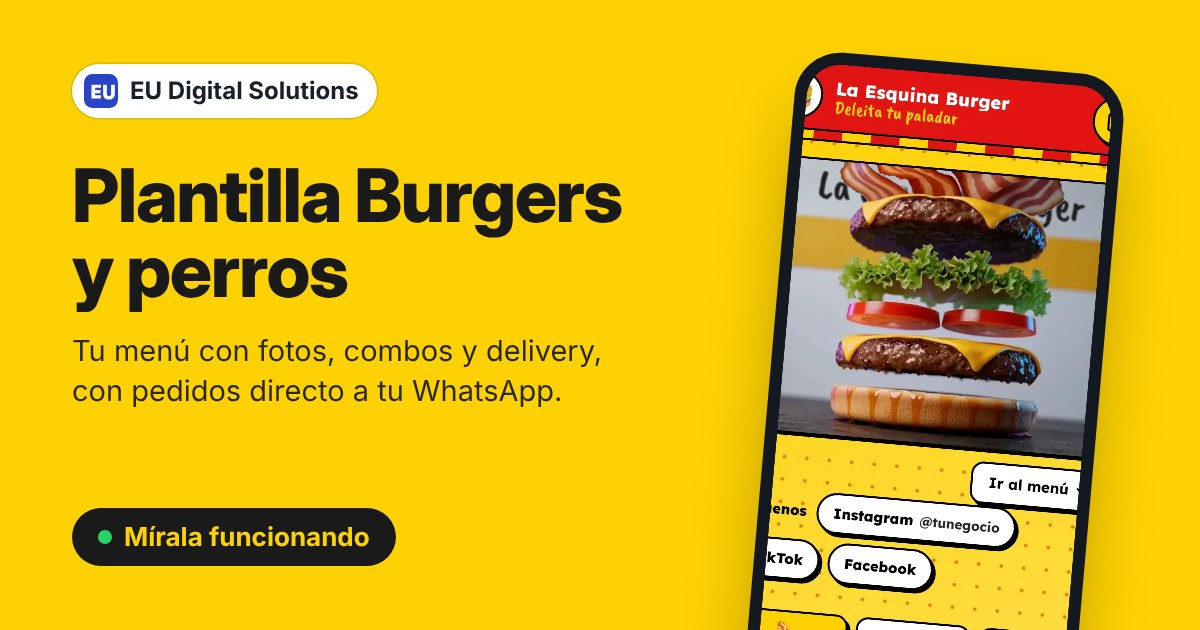
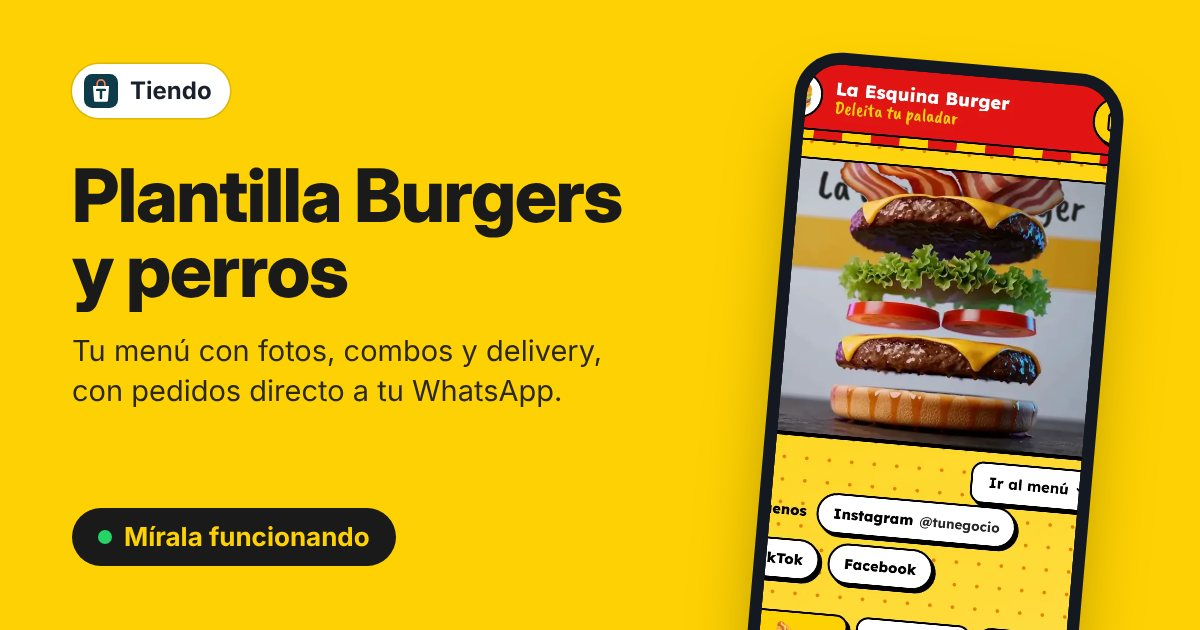
Update the backup with the Tiendo rename
Copies commit ed15d89 of EU-digital-solution.

Claude-Session: https://claude.ai/code/session_01WBHWbeLRVCgdNFos2AZub8

Changed region(s): [[0.0617, 0.0905, 0.3392, 0.2111]]

diff --git a/eudigital/core/idiomas-plataforma.js b/eudigital/core/idiomas-plataforma.js
@@ -1,7 +1,7 @@
 /* Textos de la plataforma (portada, registro y panel del dueño) en inglés, portugués e italiano.
    Usa el traductor de core/idiomas.js: cada texto en español con sus tres traducciones
    [inglés, portugués, italiano], y patrones para textos con números, fechas o nombres.
-   El panel de administración de EU Digital queda en español.
+   El panel de administración de Tiendo queda en español.
    Para agregar un texto nuevo del panel o la portada, súmalo aquí. */
 (function () {
   "use strict";
@@ -196,7 +196,7 @@
     "Escribir por WhatsApp": ["Write on WhatsApp", "Escrever pelo WhatsApp", "Scrivi su WhatsApp"],
     "Abriendo la página": ["Opening the page", "Abrindo a página", "Apertura della pagina"],
     "Esta página no está disponible": ["This page isn't available", "Esta página não está disponível", "Questa pagina non è disponibile"],
-    "Si eres el dueño del negocio, escríbele a EU Digital.": ["If you're the business owner, write to EU Digital.", "Se você é o dono do negócio, escreva para a EU Digital.", "Se sei il titolare, scrivi a EU Digital."],
+    "Si eres el dueño del negocio, escríbele a Tiendo.": ["If you're the business owner, write to Tiendo.", "Se você é o dono do negócio, escreva para a Tiendo.", "Se sei il titolare, scrivi a Tiendo."],
     "No pudimos cargar la página": ["We couldn't load the page", "Não conseguimos carregar a página", "Non siamo riusciti a caricare la pagina"],
     "Revisa tu conexión a internet y vuelve a intentar.": ["Check your internet connection and try again.", "Verifique sua conexão com a internet e tente de novo.", "Controlla la connessione a internet e riprova."],
     "Instalar ahora": ["Install now", "Instalar agora", "Installa ora"],
@@ -206,7 +206,7 @@
     "Instálalo como app en tu teléfono: abre directo en tu página, sin buscar el enlace.": ["Install it as an app on your phone: it opens straight to your page, no need to look for the link.", "Instale como app no seu telefone: abre direto na sua página, sem procurar o link.", "Installalo come app sul telefono: si apre direttamente sulla tua pagina, senza cercare il link."],
     "Instala tu panel en el teléfono o en la computadora para entrar con un toque.": ["Install your panel on your phone or computer to get in with one tap.", "Instale seu painel no telefone ou no computador para entrar com um toque.", "Installa il pannello sul telefono o sul computer per entrare con un tocco."],
     "La app de tu panel": ["Your panel app", "O app do seu painel", "L'app del tuo pannello"],
-    "Listo. Busca el ícono de EU Digital en tu pantalla de inicio.": ["Done. Look for the EU Digital icon on your home screen.", "Pronto. Procure o ícone da EU Digital na tela inicial.", "Fatto. Cerca l'icona di EU Digital nella schermata iniziale."],
+    "Listo. Busca el ícono de Tiendo en tu pantalla de inicio.": ["Done. Look for the Tiendo icon on your home screen.", "Pronto. Procure o ícone da Tiendo na tela inicial.", "Fatto. Cerca l'icona di Tiendo nella schermata iniziale."],
     "Ya estás usando la app instalada.": ["You're already using the installed app.", "Você já está usando o app instalado.", "Stai già usando l'app installata."],
     "En iPhone o iPad se instala así:": ["On iPhone or iPad, install it like this:", "No iPhone ou iPad, instale assim:", "Su iPhone o iPad si installa così:"],
     "Se instala así:": ["Install it like this:", "Instale assim:", "Si installa così:"],
@@ -283,7 +283,7 @@
     "No tienes permiso para hacer eso.": ["You don't have permission to do that.", "Você não tem permissão para fazer isso.", "Non hai il permesso di farlo."],
     "Esta cuenta no tiene página": ["This account has no page", "Esta conta não tem página", "Questo account non ha una pagina"],
     "Crear mi página": ["Create my page", "Criar minha página", "Crea la mia pagina"],
-    "No encontramos la plantilla de tu página. Escríbele a EU Digital.": ["We couldn't find your page's template. Write to EU Digital.", "Não encontramos o modelo da sua página. Escreva para a EU Digital.", "Non troviamo il modello della tua pagina. Scrivi a EU Digital."],
+    "No encontramos la plantilla de tu página. Escríbele a Tiendo.": ["We couldn't find your page's template. Write to Tiendo.", "Não encontramos o modelo da sua página. Escreva para a Tiendo.", "Non troviamo il modello della tua pagina. Scrivi a Tiendo."],
 
     // Barra del panel y guardar
     "Ver página": ["View page", "Ver página", "Vedi pagina"],
@@ -735,7 +735,7 @@
     "Ver cómo pagar": ["See how to pay", "Ver como pagar", "Vedi come pagare"],
     "Paga por cualquiera de estas vías y luego repórtalo aquí abajo.": ["Pay by any of these methods and then report it below.", "Pague por qualquer uma destas formas e depois informe aqui embaixo.", "Paga con uno di questi metodi e poi segnalalo qui sotto."],
     "Escríbenos para saber cómo pagar.": ["Write to us to find out how to pay.", "Escreva para saber como pagar.", "Scrivici per sapere come pagare."],
-    "Escribir a EU Digital Solutions por WhatsApp": ["Write to EU Digital Solutions on WhatsApp", "Escrever para a EU Digital Solutions pelo WhatsApp", "Scrivi a EU Digital Solutions su WhatsApp"],
+    "Escribir a Tiendo por WhatsApp": ["Write to Tiendo on WhatsApp", "Escrever para a Tiendo pelo WhatsApp", "Scrivi a Tiendo su WhatsApp"],
     "Reportar un pago": ["Report a payment", "Informar um pagamento", "Segnala un pagamento"],
     "Plan que pagas": ["Plan you're paying for", "Plano que você paga", "Piano che paghi"],
     "Meses que pagas": ["Months you're paying for", "Meses que você paga", "Mesi che paghi"],

diff --git a/eudigital/panel/panel.js b/eudigital/panel/panel.js
@@ -36,7 +36,7 @@
   const estadoCuenta = () => EU.estadoCuenta(S.principal || S.sitio, S.cuenta, S.ajustes.diasGracia);
   // Una página adicional queda en pausa cuando la cuenta baja a un plan de una sola página
   const enPausa = () => !!(S.sitio && S.sitio.principal && S.sitio.estado === "suspendido" && S.principal && S.principal.estado === "activo");
-  const marca = () => S.ajustes.marca || C.marca || "EU Digital";
+  const marca = () => S.ajustes.marca || C.marca || "Tiendo";
   const waEU = (texto) => "https://wa.me/" + WA_EU + "?text=" + encodeURIComponent(texto);
   function cargando(texto) { app.replaceChildren(h("div", { class: "cargando-pantalla" }, h("p", {}, h("span", { class: "punto-carga" }), texto || "Cargando"))); }
 
@@ -49,7 +49,7 @@
     const error = h("p", { class: "banda rojo", role: "alert", hidden: !mensaje }, mensaje || "");
     const boton = h("button", { class: "btn btn-ancho", type: "submit" }, "Entrar");
     const form = h("form", { class: "hoja entrada-hoja", novalidate: true },
-      h("div", { class: "hoja-fila" }, h("div", { class: "marca-eu" }, h("img", { src: "/img/favicon.svg", alt: "" }), C.marca || "EU Digital"),
+      h("div", { class: "hoja-fila" }, h("div", { class: "marca-eu" }, h("img", { src: "/img/favicon.svg", alt: "" }), C.marca || "Tiendo"),
         EU.selectorIdiomas ? EU.selectorIdiomas() : null),
       h("div", { class: "hoja-cab" }, h("h1", {}, "Entra a tu página"), h("p", {}, "Con tu usuario y tu contraseña.")),
       h("div", { class: "campos" },
@@ -102,7 +102,7 @@
       S.ajustes = (ajustes && ajustes[0] && ajustes[0].datos) || {};
       S.planes = EU.planes.leer(S.ajustes);
       S.P = (window.EU_PLANTILLAS || {})[S.sitio.plantilla];
-      if (!S.P) throw new Error("No encontramos la plantilla de tu página. Escríbele a EU Digital.");
+      if (!S.P) throw new Error("No encontramos la plantilla de tu página. Escríbele a Tiendo.");
       S.borrador = K.combinar(S.P.defaults, S.sitio.contenido || {});
       ponerMascota(S.borrador, S.P);
       S.nombre = S.sitio.nombre;
@@ -147,7 +147,7 @@
   function pantallaSinPagina() {
     app.replaceChildren(h("main", { class: "entrada-pantalla" }, h("div", { class: "hoja entrada-hoja" },
       h("h1", {}, "Esta cuenta no tiene página"),
-      h("p", { class: "suave" }, "Si eres de " + (C.marca || "EU Digital") + ", entra por el panel de administración. Si quieres una página para tu negocio, créala gratis."),
+      h("p", { class: "suave" }, "Si eres de " + (C.marca || "Tiendo") + ", entra por el panel de administración. Si quieres una página para tu negocio, créala gratis."),
       h("div", { class: "acciones" }, h("a", { class: "btn", href: "/registro/" }, "Crear mi página"), h("a", { class: "btn btn-sec", href: "/admin/" }, "Panel de administración"), h("button", { class: "btn btn-plano", type: "button", onclick: salir }, "Salir")))));
   }
 
@@ -934,7 +934,7 @@
 
   /* ---------- Idioma del panel ----------
      Se guarda en la cuenta (eu_cuentas.idioma) para abrir el panel en ese idioma desde cualquier
-     teléfono, y para que EU Digital vea en su panel qué idioma habla cada cliente. */
+     teléfono, y para que Tiendo vea en su panel qué idioma habla cada cliente. */
   async function guardarIdioma(nuevo) {
     try { await api.rpc("eu_poner_idioma", { p_sitio: S.principal.id, p_idioma: nuevo }); if (S.cuenta) S.cuenta.idioma = nuevo; return true; }
     catch (_) { return false; }
@@ -1024,7 +1024,7 @@
         const nuevo = (r && r[0]) || Object.assign({ estado: "pendiente", creado: new Date().toISOString() }, fila);
         S.pagos.unshift(nuevo);
         S.pago = null;
-        // Aviso al teléfono de EU Digital. Si no sale, el pago igual queda en su lista de pendientes.
+        // Aviso al teléfono de Tiendo. Si no sale, el pago igual queda en su lista de pendientes.
         if (C.avisos && nuevo.id) api.funcion("eu-avisos", { accion: "pago", pago: nuevo.id }).catch(() => { /* sin aviso */ });
         pintarSeccion();
         pagoEnviado(nuevo);

diff --git a/eudigital/admin/admin.js b/eudigital/admin/admin.js
@@ -1,4 +1,4 @@
-/* Panel de EU Digital: clientes, pagos, suspensiones y ajustes de la plataforma. */
+/* Panel de Tiendo: clientes, pagos, suspensiones y ajustes de la plataforma. */
 (function () {
   "use strict";
   const C = window.EU_CONFIG;
@@ -45,14 +45,14 @@
 
   /* ---------- Entrada ---------- */
   function pantallaEntrada(mensaje) {
-    document.title = "EU Digital: entrar";
+    document.title = "Tiendo: entrar";
     const usuario = h("input", { class: "entrada", id: "usuario", type: "text", autocomplete: "username", autocapitalize: "none", spellcheck: false, value: C.usuarioAdmin || "" });
     const clave = h("input", { class: "entrada", id: "clave", type: "password", autocomplete: "current-password" });
     const error = h("p", { class: "banda rojo", role: "alert", hidden: !mensaje }, mensaje || "");
     const boton = h("button", { class: "btn btn-ancho", type: "submit" }, "Entrar");
     const form = h("form", { class: "hoja entrada-hoja", novalidate: true },
-      h("div", { class: "marca-eu" }, h("img", { src: "/img/favicon.svg", alt: "" }), C.marca || "EU Digital"),
-      h("div", { class: "hoja-cab" }, h("h1", {}, "Panel de administración"), h("p", {}, "Solo para EU Digital. La sesión se cierra al cerrar esta pestaña.")),
+      h("div", { class: "marca-eu" }, h("img", { src: "/img/favicon.svg", alt: "" }), C.marca || "Tiendo"),
+      h("div", { class: "hoja-cab" }, h("h1", {}, "Panel de administración"), h("p", {}, "Solo para Tiendo. La sesión se cierra al cerrar esta pestaña.")),
       h("div", { class: "campos" },
         h("div", { class: "campo" }, h("label", { for: "usuario" }, "Usuario"), usuario),
         h("div", { class: "campo" }, h("label", { for: "clave" }, "Contraseña"), clave)),
@@ -93,7 +93,7 @@
     cargando("Abriendo el panel");
     try {
       const esAdmin = await api.rpc("eu_es_admin", {});
-      if (esAdmin !== true) { await api.salir(); return pantallaEntrada("Esta cuenta no es de EU Digital. Los clientes entran por /panel."); }
+      if (esAdmin !== true) { await api.salir(); return pantallaEntrada("Esta cuenta no es de Tiendo. Los clientes entran por /panel."); }
       const [sitios, cuentas, pagos, notas, ajustes] = await Promise.all([
         api.select("eu_sitios", SEL_SITIOS),
         api.select("eu_cuentas", "select=*"),
@@ -129,11 +129,11 @@
     { id: "ajustes", titulo: "Ajustes" },
   ];
   function pintar() {
-    document.title = "EU Digital: administración";
+    document.title = "Tiendo: administración";
     refs = { nav: h("div", { class: "adm-nav-in", role: "navigation", "aria-label": "Secciones" }), main: h("main", { class: "adm-main" }) };
     app.replaceChildren(
       h("div", { class: "adm-arriba" },
-        h("header", { class: "adm-cab" }, h("div", { class: "marca-eu" }, h("img", { src: "/img/favicon.svg", alt: "" }), D.ajustes.marca || C.marca || "EU Digital"),
+        h("header", { class: "adm-cab" }, h("div", { class: "marca-eu" }, h("img", { src: "/img/favicon.svg", alt: "" }), D.ajustes.marca || C.marca || "Tiendo"),
           h("div", { class: "acciones" }, h("button", { class: "btn btn-plano btn-chico", type: "button", onclick: cargar }, "Actualizar"), h("button", { class: "btn btn-plano btn-chico", type: "button", onclick: salir }, "Salir"))),
         h("nav", {}, refs.nav)),
       refs.main);
@@ -204,7 +204,7 @@
 
   function recordatorio(s) {
     const c = cuentaDe(s);
-    const saludo = "Hola" + (c.contacto ? " " + c.contacto : "") + ", te escribimos de " + (D.ajustes.marca || C.marca || "EU Digital") + ". ";
+    const saludo = "Hola" + (c.contacto ? " " + c.contacto : "") + ", te escribimos de " + (D.ajustes.marca || C.marca || "Tiendo") + ". ";
     if (planDe(s) === "prueba") {
       const pl = PL();
       return saludo + "La prueba gratis de tu página " + s.nombre + (c.vence ? (EU.diasHasta(c.vence) < 0 ? " terminó el " : " termina el ") + EU.fecha(c.vence) : " está por terminar") + ". " +

diff --git a/eudigital/index.html b/eudigital/index.html
@@ -4,7 +4,7 @@
 <meta charset="utf-8">
 <meta name="viewport" content="width=device-width, initial-scale=1, viewport-fit=cover">
 <meta name="theme-color" content="#E9EDF3">
-<title>EU Digital Solutions: tu página de pedidos por WhatsApp</title>
+<title>Tiendo: tu página de pedidos por WhatsApp</title>
 <meta name="description" content="Páginas de pedidos para restaurantes y tiendas en Venezuela. Pruébala 15 días gratis: precios en dólares y bolívares, pedidos directo a tu WhatsApp y un panel para cambiar todo desde el teléfono.">
 <link rel="icon" href="/img/favicon.svg" type="image/svg+xml">
 <link rel="manifest" href="/panel/manifest.webmanifest">
@@ -14,7 +14,7 @@
 <link rel="stylesheet" href="https://fonts.googleapis.com/css2?family=Atkinson+Hyperlegible:wght@400;700&family=Bricolage+Grotesque:opsz,wght@12..96,700;12..96,800&display=swap">
 <link rel="stylesheet" href="/core/panel.css">
 <style>
-/* Portada de EU Digital. La idea es la de los paneles: un talonario. Arriba, el ticket del pedido tal
+/* Portada de Tiendo. La idea es la de los paneles: un talonario. Arriba, el ticket del pedido tal
    como llega al WhatsApp; en los planes, boletos con borde troquelado y el sello de lo que te ahorras.
    El resto va callado para que lo que se recuerde sean esos dos papeles. */
 html { scroll-behavior: smooth; }
@@ -190,7 +190,7 @@ html { scroll-behavior: smooth; }
 <div id="portada" hidden>
   <div class="ld">
     <header class="ld-cab">
-      <div class="marca-eu"><img src="/img/favicon.svg" alt="">EU Digital Solutions</div>
+      <div class="marca-eu"><img src="/img/favicon.svg" alt="">Tiendo</div>
       <nav aria-label="Secciones">
         <a href="#plantillas">Plantillas</a>
         <a href="#planes">Planes</a>
@@ -358,7 +358,7 @@ html { scroll-behavior: smooth; }
     </section>
 
     <footer class="ld-pie">
-      <span>EU Digital Solutions</span>
+      <span>Tiendo</span>
       <span>WhatsApp <a data-wa href="#" target="_blank" rel="noopener"><span data-wa-visible>0414-474-1237</span></a></span>
       <span><a href="/panel/">Entrar a mi panel</a></span>
     </footer>
@@ -378,7 +378,7 @@ html { scroll-behavior: smooth; }
 <script src="/t/boutique/datos.js"></script>
 <script>
 /* Si la dirección trae un negocio (?n=usuario, un subdominio o un dominio propio), se abre su página.
-   Si no, se muestra la portada de EU Digital. */
+   Si no, se muestra la portada de Tiendo. */
 (function () {
   "use strict";
   var C = window.EU_CONFIG;
@@ -422,7 +422,7 @@ html { scroll-behavior: smooth; }
     headers: { apikey: C.supabaseKey, Authorization: "Bearer " + C.supabaseKey }, cache: "no-store",
   }).then(function (r) { if (!r.ok) throw new Error("http " + r.status); return r.json(); }).then(function (filas) {
     var s = filas && filas[0];
-    if (!s) { noDisponible("Esta página no está disponible", "Si eres el dueño del negocio, escríbele a EU Digital."); return; }
+    if (!s) { noDisponible("Esta página no está disponible", "Si eres el dueño del negocio, escríbele a Tiendo."); return; }
     try { sessionStorage.setItem("eu:sitio:" + s.slug, JSON.stringify({ t: Date.now(), sitio: s })); } catch (_) { /* sin almacenamiento */ }
     var extra = new URLSearchParams(location.search);
     extra.delete("negocio");

diff --git a/eudigital/core/sitio.js b/eudigital/core/sitio.js
@@ -642,7 +642,7 @@
   function pantalla(tipo) {
     document.documentElement.classList.add("eu-sin-pagina");
     const txt = {
-      "no-disponible": ["Esta página no está disponible", "Si eres el dueño del negocio, escríbele a EU Digital."],
+      "no-disponible": ["Esta página no está disponible", "Si eres el dueño del negocio, escríbele a Tiendo."],
       "sin-red": ["No pudimos cargar la página", "Revisa tu conexión a internet y vuelve a intentar."],
     }[tipo];
     document.body.innerHTML = `<main class="eu-pantalla"><h1>${txt[0]}</h1><p>${txt[1]}</p>${tipo === "sin-red" ? '<button type="button" onclick="location.reload()">Intentar de nuevo</button>' : ""}</main>`;
@@ -692,7 +692,7 @@
     if (EU.sitio.demo && !enPanel) {
       html += EU.sitio.prueba
         ? `<div class="eu-tira eu-tira-demo">Así se vería la página de ${EU.esc(EU.sitio.nombre)}. <a href="/registro/?plantilla=${encodeURIComponent(PLANTILLA)}&amp;nombre=${encodeURIComponent(EU.sitio.nombre)}" target="_top">Créala gratis con tu menú</a></div>`
-        : `<div class="eu-tira eu-tira-demo">Esta es una página de muestra de ${EU.esc(C.marca || "EU Digital")}. <a href="/registro/?plantilla=${encodeURIComponent(PLANTILLA)}">Pruébala gratis con tu negocio</a></div>`;
+        : `<div class="eu-tira eu-tira-demo">Esta es una página de muestra de ${EU.esc(C.marca || "Tiendo")}. <a href="/registro/?plantilla=${encodeURIComponent(PLANTILLA)}">Pruébala gratis con tu negocio</a></div>`;
     }
     if (!est.abierto) html += `<div class="eu-tira eu-tira-cerrado" role="status"><b>${EU.esc(est.texto)}.</b> Puedes dejar tu pedido y te respondemos apenas abramos.</div>`;
     if (c.hoy.aviso) html += `<div class="eu-tira eu-tira-aviso" role="status">${EU.esc(c.hoy.aviso)}</div>`;
@@ -892,7 +892,7 @@
     }
     sitio.c = K.combinar(P.defaults || K.contenidoBase, sitio.contenido || {});
     if (EU.traducirContenido) EU.traducirContenido(sitio.c); // nombres y descripciones que el dueño tradujo
-    // En la muestra, los pedidos de prueba llegan al WhatsApp de EU Digital
+    // En la muestra, los pedidos de prueba llegan al WhatsApp de Tiendo
     if (sitio.demo && !EU.soloNumeros(sitio.c.negocio.whatsapp)) sitio.c.negocio.whatsapp = C.whatsappMarca || "";
     EU.sitio = sitio;
     document.title = sitio.nombre + (sitio.c.negocio.eslogan ? " · " + sitio.c.negocio.eslogan : "");

diff --git a/eudigital/admin/index.html b/eudigital/admin/index.html
@@ -5,19 +5,19 @@
 <meta name="viewport" content="width=device-width, initial-scale=1, viewport-fit=cover">
 <meta name="theme-color" content="#19202B">
 <meta name="robots" content="noindex">
-<title>EU Digital: administración</title>
+<title>Tiendo: administración</title>
 <link rel="icon" href="/img/favicon.svg" type="image/svg+xml">
 <link rel="manifest" href="/admin/manifest.webmanifest">
 <link rel="apple-touch-icon" href="/img/icono-192.png">
 <meta name="mobile-web-app-capable" content="yes">
 <meta name="apple-mobile-web-app-capable" content="yes">
-<meta name="apple-mobile-web-app-title" content="EU Digital">
+<meta name="apple-mobile-web-app-title" content="Tiendo">
 <link rel="preconnect" href="https://fonts.googleapis.com">
 <link rel="preconnect" href="https://fonts.gstatic.com" crossorigin>
 <link rel="stylesheet" href="https://fonts.googleapis.com/css2?family=Atkinson+Hyperlegible:wght@400;700&family=Bricolage+Grotesque:opsz,wght@12..96,700;12..96,800&display=swap">
 <link rel="stylesheet" href="/core/panel.css">
 <style>
-/* Panel de EU Digital: barra oscura arriba, secciones en pastillas, y las hojas del talonario:
+/* Panel de Tiendo: barra oscura arriba, secciones en pastillas, y las hojas del talonario:
    pagos por revisar como recibos que se sellan, clientes como fichas. */
 .adm-arriba { position: sticky; top: 0; z-index: 20; padding-top: env(safe-area-inset-top, 0px); background: var(--tinta); }
 .adm-cab, .adm-nav-in, .adm-main { max-width: 1180px; margin: 0 auto; }

diff --git a/eudigital/core/idiomas.js b/eudigital/core/idiomas.js
@@ -190,7 +190,7 @@
     "Abierto": ["Open", "Aberto", "Aperto"],
     "Puedes dejar tu pedido y te respondemos apenas abramos.": ["You can leave your order and we'll reply as soon as we open.", "Você pode deixar seu pedido e responderemos assim que abrirmos.", "Puoi lasciare il tuo ordine e ti risponderemo appena apriamo."],
     "Puedes enviar tu pedido y te respondemos apenas abramos.": ["You can send your order and we'll reply as soon as we open.", "Você pode enviar seu pedido e responderemos assim que abrirmos.", "Puoi inviare il tuo ordine e ti risponderemo appena apriamo."],
-    "Esta es una página de muestra de EU Digital Solutions.": ["This is a sample page by EU Digital Solutions.", "Esta é uma página de exemplo da EU Digital Solutions.", "Questa è una pagina di esempio di EU Digital Solutions."],
+    "Esta es una página de muestra de Tiendo.": ["This is a sample page by Tiendo.", "Esta é uma página de exemplo da Tiendo.", "Questa è una pagina di esempio di Tiendo."],
     "Pruébala gratis con tu negocio": ["Try it free with your business", "Experimente grátis com o seu negócio", "Provala gratis con la tua attività"],
     "Créala gratis con tu menú": ["Create it free with your menu", "Crie grátis com o seu cardápio", "Creala gratis con il tuo menù"],
     "Mascota bailarina, tócala para que salte": ["Dancing mascot, tap it to make it jump", "Mascote dançante, toque para ela pular", "Mascotte ballerina, toccala per farla saltare"],

diff --git a/eudigital/registro/registro.js b/eudigital/registro/registro.js
@@ -39,7 +39,7 @@
 
   function cabecera() {
     return h("header", { class: "rg-cab" },
-      h("a", { class: "marca-eu", href: "/" }, h("img", { src: "/img/favicon.svg", alt: "" }), C.marca || "EU Digital"),
+      h("a", { class: "marca-eu", href: "/" }, h("img", { src: "/img/favicon.svg", alt: "" }), C.marca || "Tiendo"),
       h("div", { class: "acciones" },
         EU.selectorIdiomas ? EU.selectorIdiomas({ alCambiar: cambiarIdioma }) : null,
         h("a", { class: "btn btn-sec btn-chico", href: "/panel/" }, "Ya tengo cuenta")));
@@ -244,7 +244,7 @@
     return () => { pintarTitulo(); pintarLetra(); };
   }
 
-  document.title = "Crea tu página gratis · " + (C.marca || "EU Digital");
+  document.title = "Crea tu página gratis · " + (C.marca || "Tiendo");
   const repintar = pintar();
   api.rpc("eu_planes_publicos", {}).then((r) => {
     planes = EU.planes.leer(r);

diff --git a/eudigital/t/sushi/index.html b/eudigital/t/sushi/index.html
@@ -151,7 +151,7 @@ footer b{font-family:var(--f-display);color:var(--rojo)}
 .toast{position:fixed;left:50%;bottom:calc(92px + env(safe-area-inset-bottom,0px));transform:translateX(-50%);background:var(--negro);color:#fff;padding:9px 16px;border-radius:999px;font-size:13.5px;font-weight:700;z-index:50;white-space:nowrap;pointer-events:none}
 @media (max-width:380px){.vert{font-size:34px}.hanko{width:54px;height:54px;font-size:13px}}
 
-/* EU Digital: logo, bolívares, agotados, info del local y pago */
+/* Tiendo: logo, bolívares, agotados, info del local y pago */
 .hero .logo{flex:none;width:68px;height:68px;border-radius:14px;object-fit:cover;background:#fff;box-shadow:0 0 0 3px var(--rojo)}
 .precio small{display:block;font-size:11.5px;font-weight:600;color:var(--tinta-2);text-align:right}
 .plato.agotado{opacity:.55}

diff --git a/eudigital/core/config.js b/eudigital/core/config.js
@@ -1,4 +1,4 @@
-/* Configuración de la plataforma EU Digital.
+/* Configuración de la plataforma Tiendo.
    Lo único que se cambia aquí es el dominio cuando lo compres. */
 window.EU_CONFIG = {
   // Base de datos (Supabase, proyecto "eudigital"). La clave "anon" es pública por diseño:
@@ -15,10 +15,10 @@ window.EU_CONFIG = {
   // cliente tendrá su dirección: pizzeria-luigi.eudigital.com
   dominioBase: "",
 
-  marca: "EU Digital Solutions",
+  marca: "Tiendo",
   whatsappMarca: "584144741237",
 
-  // Avisos al teléfono de EU Digital cuando un cliente reporta un pago o alguien se registra.
+  // Avisos al teléfono de Tiendo cuando un cliente reporta un pago o alguien se registra.
   // Usan la tabla eu_avisos y la función eu-avisos (ver sql/2026-11-13_avisos.sql y supabase/functions/).
   avisos: true
 };

diff --git a/eudigital/core/instalar.js b/eudigital/core/instalar.js
@@ -76,7 +76,7 @@
           ok.addEventListener("click", async () => {
             ok.disabled = true;
             const r = await app.instalar();
-            if (r === "ok") { cuerpo.replaceChildren(el("p", { class: "banda verde" }, "Listo. Busca el ícono de EU Digital en tu pantalla de inicio.")); pie.replaceChildren(el("button", { class: "btn", type: "button", onclick: () => d.close() }, "Cerrar")); }
+            if (r === "ok") { cuerpo.replaceChildren(el("p", { class: "banda verde" }, "Listo. Busca el ícono de Tiendo en tu pantalla de inicio.")); pie.replaceChildren(el("button", { class: "btn", type: "button", onclick: () => d.close() }, "Cerrar")); }
             else pintar();
           });
           cuerpo.replaceChildren(intro);

diff --git a/eudigital/registro/index.html b/eudigital/registro/index.html
@@ -4,7 +4,7 @@
 <meta charset="utf-8">
 <meta name="viewport" content="width=device-width, initial-scale=1, viewport-fit=cover">
 <meta name="theme-color" content="#E9EDF3">
-<title>Crea tu página de pedidos y pruébala gratis · EU Digital Solutions</title>
+<title>Crea tu página de pedidos y pruébala gratis · Tiendo</title>
 <meta name="description" content="Elige una plantilla, pon los datos de tu negocio y tu página de pedidos por WhatsApp queda en línea de una vez. Pruébala gratis, sin tarjeta.">
 <link rel="icon" href="/img/favicon.svg" type="image/svg+xml">
 <link rel="manifest" href="/panel/manifest.webmanifest">
